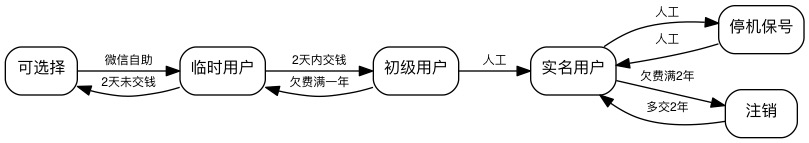
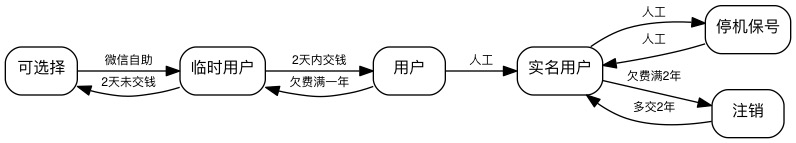
无 初级

diff --git a/public/src/wx_base.js b/public/src/wx_base.js
@@ -234,7 +234,7 @@ var wx_init = (function ($, w, undefined) {
             case '3':
                 return '<p class="temp-text">状态：临时抢号';
             case '4':
-                return '<p>状态：初级会员';
+                return '<p>状态：会员';
             default:
                 return '<p class="temp-text">状态：' + value;
         }

diff --git a/public/src/hanbj_base.js b/public/src/hanbj_base.js
@@ -57,7 +57,7 @@ var home = (function ($, w, undefined) {
             case '3':
                 return '临时抢号';
             case '4':
-                return '初级会员';
+                return '会员';
             default:
                 return value;
         }

diff --git a/application/hanbj/common.php b/application/hanbj/common.php
@@ -56,7 +56,7 @@ class MemberOper
             case self::TEMPUSE:
                 return '<span class="temp-text">临时抢号</span>';
             case self::JUNIOR:
-                return '初级会员';
+                return '会员';
             default:
                 return '<span class="temp-text">异常：' . $v . '</span>';
         }
@@ -212,7 +212,7 @@ class MemberOper
                 ->where($map)
                 ->update($data);
             trace("$unique_name TEMPUSE JUNIOR $ret");
-            CardOper::common($unique_name, '初级会员');
+            CardOper::common($unique_name, '会员');
             return $ret == 1;
         } catch (\Exception $e) {
             $e = $e->getMessage();
